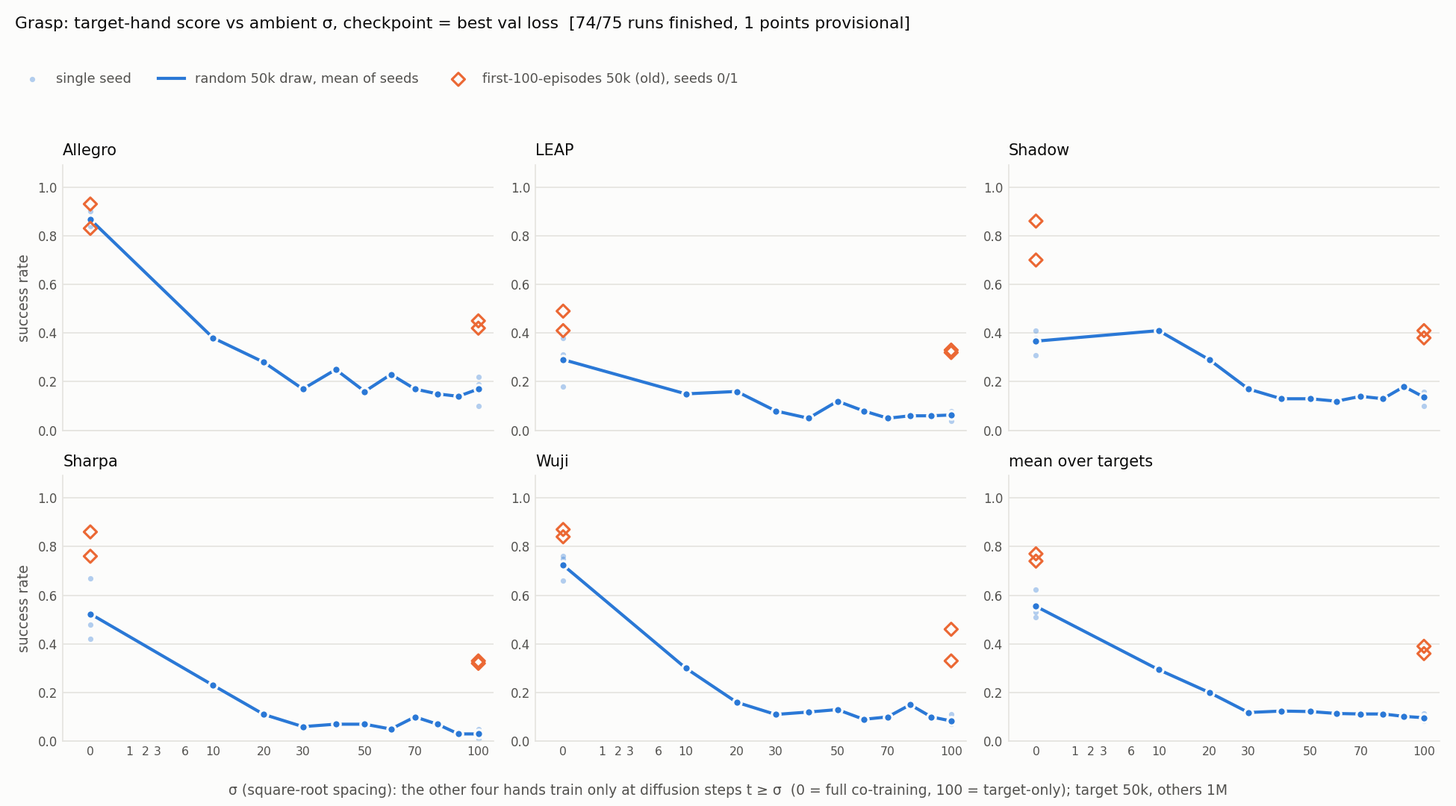
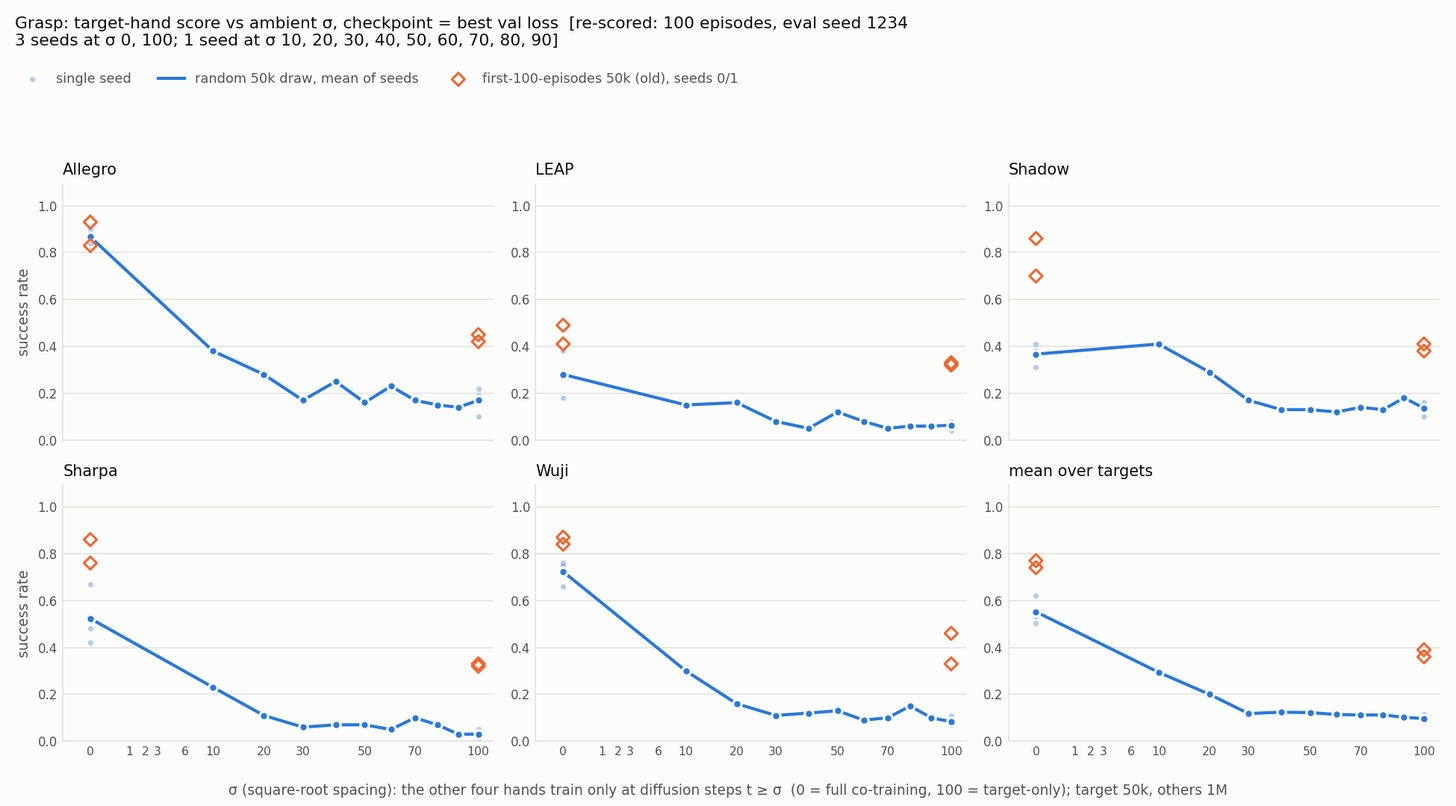
E23/E24 results and plots; grasp start-state mismatch between demos and evals (CHANGES 82)
Claude-Session: https://claude.ai/code/session_01MHEVDe8riCmBe92U7uyZyK

diff --git a/scripts/plot_finetune_sources.py b/scripts/plot_finetune_sources.py
@@ -11,7 +11,8 @@ training seeds, the line joins the seed means.
 
 --sources (item 81) lists the starting points: a sigma value (co-trained at that sigma; source best_val, fine-tune
 <Task>_sigma<S>_ft_best_val_*) or `loo` (leave-one-out pre-train, E22; source last0 from --loo-runs, fine-tune
-<Task>_loo_ft_latest_* in --loo-ft-runs). --family Grasp for grasp runs.
+<Task>_loo_ft_latest_* in --loo-ft-runs) or `amb` (each hand's own ambient sigma from --amb Hand=S ..., E24).
+--family Grasp for grasp runs.
 
 Rows: 100 envs x 1500 steps at `--eval-seed` (4321 = held-out test seed, never used for selection). Runs without
 the needed rows are skipped. Writes <out>/<prefix>_<what>_<metric>.png and <prefix>_<what>_summary.csv.
@@ -44,11 +45,12 @@ SERIES = [("src", "starting policy", "#2a78d6", "o"),
           ("ft", "after target-only fine-tune", "#eb6834", "s")]
 INK, INK2, GRID, SURFACE = "#0b0b0b", "#52514e", "#e4e3df", "#fcfcfb"
 SCRATCH_OUT = "$SCRATCH/cross_embodied_diffusion/outputs/diffusion"
-SOURCE_LABEL = {"loo": "no target\n(leave-one-out)", "0": "σ 0\n(co-train)", "100": "σ 100\n(target-only)"}
+SOURCE_LABEL = {"loo": "no target\n(LOO)", "0": "σ 0\nco-train", "100": "σ 100\ntarget-only",
+                "amb": "best σ\nambient"}
 
 
 def source_label(tok: str) -> str:
-    return SOURCE_LABEL.get(tok, f"σ {tok}\n(ambient)")
+    return SOURCE_LABEL.get(tok, f"σ {tok}\nambient")
 
 
 def rows(path: Path) -> list[dict]:
@@ -77,8 +79,9 @@ def collect(args) -> list[dict]:
                     src, src_which = args.loo_runs / f"{own}_loo_seed{k}", "last0"
                     ft = args.loo_ft_runs / f"{own}_loo_ft_latest_lr{args.lr}_seed{k}"
                 else:
-                    src, src_which = args.runs / f"{own}_sigma{s}_seed{k}", "best_val"
-                    ft = args.ft_runs / f"{own}_sigma{s}_ft_best_val_lr{args.lr}_seed{k}"
+                    sig = args.amb[hand] if s == "amb" else s
+                    src, src_which = args.runs / f"{own}_sigma{sig}_seed{k}", "best_val"
+                    ft = args.ft_runs / f"{own}_sigma{sig}_ft_best_val_lr{args.lr}_seed{k}"
                 for kind, run, which in (("src", src, src_which), ("ft", ft, args.ft_which)):
                     v = value(run, which, own, args.what, args.eval_seed, args.metric)
                     if v is not None:
@@ -96,6 +99,7 @@ def main() -> None:
     ap.add_argument("--loo-runs", type=Path, default=Path(os.path.expandvars(f"{SCRATCH_OUT}/loo_r")))
     ap.add_argument("--loo-ft-runs", type=Path, default=Path(os.path.expandvars(f"{SCRATCH_OUT}/loo_r_ft")))
     ap.add_argument("--title", default=None)
+    ap.add_argument("--amb", nargs="*", default=[], help="Hand=sigma pairs for the `amb` source")
     ap.add_argument("--seeds", type=int, nargs="+", default=[0, 1, 2])
     ap.add_argument("--lr", default="1e-05")
     ap.add_argument("--ft-which", default="last0")
@@ -106,6 +110,7 @@ def main() -> None:
     ap.add_argument("--prefix", default="finetune_sources_rotation")
     args = ap.parse_args()
     args.out.mkdir(parents=True, exist_ok=True)
+    args.amb = {k: int(v) for k, v in (x.split("=") for x in args.amb)}
     recs = collect(args)
     if not recs:
         raise SystemExit("no scored runs found")

diff --git a/docs/RUNS.md b/docs/RUNS.md
@@ -56,8 +56,9 @@ Vista (TACC GH200, project ASC26008), newest first. Output roots are relative to
 | Job | Submitted | Purpose | Exact submit command | Manifest (regenerate) | Output | Status | Log books |
 |---|---|---|---|---|---|---|---|
 | idev c639-092 (E21 evals) | 2026-10-08 10:08 | E21 evals run on the idev instead of waiting for the queued `1056925`–`1056932`: fine-tunes best_rollout/best_val/last0 at seed 4321, then 1234; fine-tunes best_val/last0 on the other 4 hands (seed 4321); sources σ 0/15/100 best_val on the other 4 hands (seed 4321). 8 processes on one GH200 | `slurm_jobs/vista_train_manifest/logs/rescore_e21/run.sh <p> 8` for p = 0..7 under `nohup` (gitignored wrapper: per stage `rescore_selected.py` / `eval_cross_embodiment.py --skip-target` with `--shard p/8`; logs `rescore_e21/p<p>.log`) | — | `ambient_ta_r_ft/*/final_eval.jsonl`, `cross_eval.jsonl`; `ambient_ta_r/*/cross_eval.jsonl` | **done** 2026-10-09 00:18 (577 evals here, ~690 s each at 8 per GH200; ~0.7 evals/min, same as 4). The queued batch evals also ran (`1056925` 1h21-1h40, `1056926`/`1056927`/`1056932` 1-52 min, picking up what was left); all rows present, checked | [E21](experiment_log_book.md#e21), [A43](agent_log_book.md#a43) |
-| E24 (to submit) | 2026-10-10 | Grasp fine-tunes from E23: σ 0 × seeds 0-2 + best ambient σ per hand (Allegro 10, LEAP 20, Shadow 10, Sharpa 10, Wuji 10; seed 0) = 20, lr 1e-5, 10 epochs, then evals (own hand 1234/4321, other hands 4321) in the same job | `bash slurm_jobs/submit_e24_grasp_ft.sh` = `sbatch -A ASC26008 -p gh -N 5 --array=0-3 -t 03:00:00 --job-name=grasp-ft --dependency=afterany:1061197 --export=ALL,MANIFEST=slurm_jobs/grasp_ft_chain_manifest.json,PACK=1 slurm_jobs/vista_train_manifest.sbatch` | see the script header (`build_finetune_manifest.py` ×6, concatenate, `build_chain_manifest.py --which best_rollout best_val last0 --cross-which best_val last0`) | `diffusion/ambient_ta_gr_ft/` | not submitted. Dependency on `1061197` because `Grasp-LEAP_sigma0_seed2` was still training. Dry run of slot 3/4 (task 19) checked; all 20 init checkpoints exist | [E24](experiment_log_book.md#e24), [A48](agent_log_book.md#a48) |
-| `1061197` (grasp-sweep; replaces `1061190`, cancelled) | 2026-10-09 | Grasp ambient σ sweep on random-draw targets: 5 targets × σ {0,10,…,100} × seed 0, plus σ {0,100} × seeds {1,2}: 75 runs, E19 recipe (`_K50kr` pools, frozen `norm_grasp_minmax.json`, noise-first). Each node trains one run, then scores best_val at seeds 1234 and 4321 | `sbatch -A ASC26008 -p gh -N 5 --array=0-14 -t 09:00:00 --job-name=grasp-sweep --export=ALL,MANIFEST=slurm_jobs/grasp_sweep_chain_manifest.json,PACK=1 slurm_jobs/vista_train_manifest.sbatch` (= `bash slurm_jobs/submit_e23_grasp_sweep.sh`) | see the script header (two `build_ambient_manifest.py` calls, concatenate, `build_chain_manifest.py`) | `diffusion/ambient_ta_gr/` | 14/15 COMPLETED 2026-10-09 20:37 → 10-10 03:19-04:00 (6h42-7h09); `1061197_12` still running at ~04:20 (7h09). 74/75 runs complete, all with best_val rows at 1234 and 4321. First submitted as `1061190` (5 x 15 nodes), chosen on a wrong count of 3 `gh` idevs (`i614-074` is on `gg`; the 20-running / 40-submitted caps are per partition); cancelled and resubmitted by the user as `1061197`, 15 x 5 nodes (fits: 2 `gh` idevs + 3 E22 + 15 = 20 running). 75 + 15 + 2 = 92 of 96 nodes. 9:00 = grasp runs 6h48-6h58 at PACK=1 (`1043385`) + ~10 min evals. Dry run of slot 4/14 (task 74, `Grasp-Wuji_sigma100_seed2`) checked | [E23](experiment_log_book.md#e23), [A46](agent_log_book.md#a46) |
+| idev c636-061 (E24 forgetting baseline) | 2026-10-11 | E23 source runs used by E24 (σ 0 seeds 0-2 + best ambient σ seed 0) on the other four grasp hands, best_val, seed 4321: 80 evals | `slurm_jobs/vista_train_manifest/logs/cross_e24_src/run.sh <p> 6` for p = 0..5 under `nohup` (wraps `eval_cross_embodiment.py ... --which best_val --eval-seed 4321 --skip-target --shard p/6`) | — | `ambient_ta_gr/*/cross_eval.jsonl` | running (started 14:5x) | [E24](experiment_log_book.md#e24), [A49](agent_log_book.md#a49) |
+| `1062769` (grasp-ft) | 2026-10-10 | Grasp fine-tunes from E23: σ 0 × seeds 0-2 + best ambient σ per hand (Allegro 10, LEAP 20, Shadow 10, Sharpa 10, Wuji 10; seed 0) = 20, lr 1e-5, 10 epochs, then evals (own hand 1234/4321, other hands 4321) in the same job | `bash slurm_jobs/submit_e24_grasp_ft.sh` = `sbatch -A ASC26008 -p gh -N 5 --array=0-3 -t 03:00:00 --job-name=grasp-ft --dependency=afterany:1061197 --export=ALL,MANIFEST=slurm_jobs/grasp_ft_chain_manifest.json,PACK=1 slurm_jobs/vista_train_manifest.sbatch` | see the script header (`build_finetune_manifest.py` ×6, concatenate, `build_chain_manifest.py --which best_rollout best_val last0 --cross-which best_val last0`) | `diffusion/ambient_ta_gr_ft/` | **done**: 4/4 COMPLETED 2026-10-10 07:46 → 10:07 (2h02-2h10 of 3:00), 20/20 fine-tunes, every eval row present (checked). Dependency on `1061197` because `Grasp-LEAP_sigma0_seed2` was still training. Dry run of slot 3/4 (task 19) checked; all 20 init checkpoints exist | [E24](experiment_log_book.md#e24), [A48](agent_log_book.md#a48) |
+| `1061197` (grasp-sweep; replaces `1061190`, cancelled) | 2026-10-09 | Grasp ambient σ sweep on random-draw targets: 5 targets × σ {0,10,…,100} × seed 0, plus σ {0,100} × seeds {1,2}: 75 runs, E19 recipe (`_K50kr` pools, frozen `norm_grasp_minmax.json`, noise-first). Each node trains one run, then scores best_val at seeds 1234 and 4321 | `sbatch -A ASC26008 -p gh -N 5 --array=0-14 -t 09:00:00 --job-name=grasp-sweep --export=ALL,MANIFEST=slurm_jobs/grasp_sweep_chain_manifest.json,PACK=1 slurm_jobs/vista_train_manifest.sbatch` (= `bash slurm_jobs/submit_e23_grasp_sweep.sh`) | see the script header (two `build_ambient_manifest.py` calls, concatenate, `build_chain_manifest.py`) | `diffusion/ambient_ta_gr/` | **done**: 15/15 COMPLETED 2026-10-09 20:37 → 10-10 03:19-04:27 (6h42-7h14 of 9:00); 75/75 runs, every best_val row at 1234 and 4321 (checked). First submitted as `1061190` (5 x 15 nodes), chosen on a wrong count of 3 `gh` idevs (`i614-074` is on `gg`; the 20-running / 40-submitted caps are per partition); cancelled and resubmitted by the user as `1061197`, 15 x 5 nodes (fits: 2 `gh` idevs + 3 E22 + 15 = 20 running). 75 + 15 + 2 = 92 of 96 nodes. 9:00 = grasp runs 6h48-6h58 at PACK=1 (`1043385`) + ~10 min evals. Dry run of slot 4/14 (task 74, `Grasp-Wuji_sigma100_seed2`) checked | [E23](experiment_log_book.md#e23), [A46](agent_log_book.md#a46) |
 | `1060968` (loo-chain; replaces `1060945`, cancelled) | 2026-10-09 | Leave-one-out: per rotation target × seeds {0,1,2}, pre-train on the other 4 hands only (target gated at 100 on its `_K50kr` store, E19 recipe), then fine-tune from `policy_latest.pt` on the target 50k (lr 1e-5, 10 epochs): 15 + 15 runs, plus evals (pre-trains zero-shot on the target and on their 4 hands; fine-tunes own hand at 4321/1234 and other hands at 4321) | `scancel 1060945; bash slurm_jobs/submit_e22_loo.sh` (login node) = `sbatch -A ASC26008 -p gh -N 5 --array=0-2 -t 12:00:00 --job-name=loo-chain --export=ALL,MANIFEST=slurm_jobs/loo_chain_manifest.json,PACK=1 slurm_jobs/vista_train_manifest.sbatch`: each node runs one chain pre-train → fine-tune (‖ pre-train evals) → fine-tune evals (CHANGES 79) | `scripts/build_ambient_manifest.py --families InHand-Rotation --leave-one-out --seeds 0 1 2 --size 50kr --root outputs/diffusion/loo_r --out slurm_jobs/loo_pretrain_manifest.json`; `scripts/build_finetune_manifest.py --families InHand-Rotation --src-tag loo --init policy_latest.pt --seeds 0 1 2 --lrs 1e-5 --size 50kr --src-root outputs/diffusion/loo_r --root outputs/diffusion/loo_r_ft --out slurm_jobs/loo_finetune_manifest.json`; `scripts/build_chain_manifest.py --pre slurm_jobs/loo_pretrain_manifest.json --ft slurm_jobs/loo_finetune_manifest.json --out slurm_jobs/loo_chain_manifest.json` | `diffusion/loo_r/`, `diffusion/loo_r_ft/` | **done**: 3/3 COMPLETED 2026-10-09 17:30 → 10-10 02:31-02:44 (9h01-9h14 of 12:00); 15/15 chains done, no errors; 15 pre-trains + 15 fine-tunes complete, every eval row present (checked). The first 7-job script queued `1060945` (loo-pre), `1060947` (loo-ft) and `1060948` (ev-loopre) and then stopped at ev-looprex on TACC's sbatch banner (CHANGES 78); all three were cancelled before starting; at the user's request everything is one chained job instead. Shape: PACK=1, 5-node jobs, 12:00 limit = pre-train 6h39-6h59 (`1049683`) + fine-tune ~1h35-1h46 (`1056188`) + evals ~0.5 h (same run length, 6h39-6h59 at PACK=1). 12 queue slots, peak 15 nodes; 3 idevs in use. Dry run of pre-train slots 0/0 and 2/4 checked | [E22](experiment_log_book.md#e22), [A45](agent_log_book.md#a45) |
 | `1056188` (train), `1056189` (ev-base4321), `1056925` (ev-basex), `1056926` (ev-ft1234), `1056927` (ev-ft4321), `1056932` (ev-ftx) | 2026-10-07 14:56 | Fine-tune the E19 rotation runs σ {0, 15, 100} × seeds {0,1,2} × 5 targets from `policy_best_val.pt`, target-only gating, lr 1e-5, 10 epochs, `_K50kr` stores: 45 runs. Plus evals: all 150 E19 runs best_val at seed 4321; E19 sources on the other 4 hands (seed 4321); fine-tunes best_rollout/best_val/last0 at seeds 1234 and 4321; fine-tunes best_val/last0 on the other 4 hands (seed 4321) | `bash slurm_jobs/submit_e21_finetune.sh` (login node). Train: `sbatch -A ASC26008 -p gh -N 5 --array=0-8 -t 02:30:00 --job-name=ft-amb-r --export=ALL,MANIFEST=slurm_jobs/finetune_r_manifest.json,PACK=1 slurm_jobs/vista_train_manifest.sbatch`; eval lines in the script (`vista_eval_checkpoints.sbatch` with `EVAL_SEED`/`CROSS`, `--dependency=afterany`) | `scripts/build_finetune_manifest.py --families InHand-Rotation --src-sigmas 0 15 100 --seeds 0 1 2 --lrs 1e-5 --size 50kr --src-root outputs/diffusion/ambient_ta_r --root outputs/diffusion/ambient_ta_r_ft --out slurm_jobs/finetune_r_manifest.json` | `diffusion/ambient_ta_r_ft/`; seed-4321 rows in `ambient_ta_r/*/final_eval.jsonl`, `cross_eval.jsonl` | **train `1056188` done** 2026-10-08 04:22–06:40, 9/9 COMPLETED, 45/45 runs with `selection.json`, 1h33–1h46 per job. **ev-base4321 `1056189` done** 04:40–06:29, 3/3 COMPLETED, 1h42–1h44 of the 1:45 limit (too tight; ~5.8 min/eval at 4 per GPU): best_val at seed 4321 for all 205 `ambient_ta_r` runs (E18 + E19; the glob took the whole dir). `1056925` ev-basex, `1056926` ev-ft1234, `1056927` ev-ft4321, `1056932` ev-ftx all COMPLETED 2026-10-08/09, sharing the work with the idev run (row above). E21 complete. Submitted 2026-10-07 14:56. The script stopped at `ev-basex`: `--export` rejects the space-separated `RUNS` (fixed, CHANGES 75); the remaining 4 evals (ev-basex, ev-ft1234, ev-ft4321, ev-ftx) were submitted with `bash slurm_jobs/submit_e21_evals_rest.sh`, but only 3 were queued (`1056925`–`1056927`). `ev-ftx` was missing (cause unknown; 23 of the 40 job slots used) and was resubmitted on its own as `1056932`: `sbatch -A ASC26008 -p gh --array=0-5 -t 02:00:00 --job-name=ev-ftx --dependency=afterany:1056927 --export=ALL,RUNS='diffusion/ambient_ta_r_ft/*',WHICH=best_val:last0,EVAL_SEED=4321,CROSS=1 slurm_jobs/vista_eval_checkpoints.sbatch`. Shape: queue stats 2026-10-07 13:31 (7 d) show median waits ~10–13 h for every node-count bin, so shape barely changes the start; PACK=1 keeps the run short (~1h35, as `1045839`), 45 nodes + 18 in use ≤ 96, 25 queue slots + 4 ≤ 40. Eval sizing: ~5.5 min/eval at 4 per GH200 (idev rescore 2026-10-07). Dry run of slots 0/4 and 8/4 checked | [E21](experiment_log_book.md#e21), [A43](agent_log_book.md#a43) |
 | idev rescore (c634-142 + c611-102) | 2026-10-07 | best_val re-score of the 150 new `ambient_ta_r` runs of `1052839` (100 envs x 1500 steps, seed 1234), 8 shards: 4 per GH200 on two idevs | `slurm_jobs/vista_train_manifest/logs/rescore_ambient_ta_r/run_shards.sh 0 3 8` on c634-142 and `... 4 7 8` on c611-102 (each runs `rescore_selected.py --run $SCRATCH/.../ambient_ta_r/* --which best_val --envs 100 --steps 1500 --eval-seed 1234 --shard i/8`; already-scored runs skipped) | — | `diffusion/ambient_ta_r/*/final_eval.jsonl` | done 2026-10-07 10:31–12:33, 205/205 rows, no errors | [E19](experiment_log_book.md#e19), [A42](agent_log_book.md#a42) |

diff --git a/docs/experiment_log_book.md b/docs/experiment_log_book.md
@@ -37,7 +37,7 @@ diffusion timesteps t ≥ σ (out of 100). σ=0 is full co-training and σ=100 i
 
 | # | Date | Finding |
 |---|---|---|
-| [E24](#e24) | 2026-10-10 | *Planned:* grasp fine-tunes from σ 0 (3 seeds) and each hand's best ambient σ (seed 0). |
+| [E24](#e24) | 2026-10-11 | Grasp fine-tuning, as for rotation: from σ 0 0.58 → 0.69, from each hand's best ambient σ 0.29 → 0.31 (seed 4321). |
 | [E23](#e23) | 2026-10-10 | Grasp is hurt by ambient gating at every σ: success falls from 0.58 (σ 0, full co-training) to 0.31 (σ 10) and ~0.08–0.10 from σ 30 on (seed 4321), unlike rotation's σ 9–20 plateau. Scores on random-draw targets are far below the old first-episode subsets (target-only 0.10 vs 0.38): open question. |
 | [E22](#e22) | 2026-10-10 | Pre-training without any target data, then fine-tuning on the target 50k, matches co-training with the target mixed in, then fine-tuning: 1.16 vs 1.17 successes before drop (held-out seed 4321). The pre-train alone scores 0.00 on its unseen target. |
 | [E21](#e21) | 2026-10-08 | Fine-tuning from full co-training (σ 0) beats fine-tuning from the best ambient runs (σ 15): 1.17 vs 0.90 successes before drop at held-out seed 4321 (target-only start: 0.71). Ambient gating gives the best policy *before* fine-tuning (0.86) but gains almost nothing from it. The σ curve replicates at seed 4321. |
@@ -84,11 +84,12 @@ diffusion timesteps t ≥ σ (out of 100). σ=0 is full co-training and σ=100 i
 ## Entries
 
 <a id="e24"></a>
-### E24 — 2026-10-10 — Grasp fine-tuning from co-trained and best ambient runs (planned)
+### E24 — 2026-10-11 — Grasp fine-tuning from co-trained and best ambient runs
 
 **Question.** Does fine-tuning on the target help grasp the way it helps rotation (E21), and does starting from the
 best ambient run do better or worse than starting from full co-training?
-**Status.** set up, not submitted (RUNS "E24" row).
+**Status.** done (`1062769`, 4/4 COMPLETED, 20/20 fine-tunes, all eval rows). Forgetting baseline (sources on
+the other hands) running on idev c636-061 (RUNS), so the forgetting figure is pending.
 
 **Protocol.** From E23 runs' `policy_best_val.pt`: σ 0 × seeds 0-2, and each hand's best ambient σ among 10-90
 (chosen on seed 1234: Allegro 10, LEAP 20, Shadow 10, Sharpa 10, Wuji 10; seed 0 only, the only seed trained) = 20
@@ -96,7 +97,24 @@ fine-tunes (`ambient_ta_gr_ft/`). E21 recipe: target-only gating, lr 1e-5, 10 ep
 best_rollout/best_val/last0 on the target at seeds 1234 and 4321, best_val/last0 on the other hands at 4321.
 No σ 100 control (not requested). The ambient arm has 1 seed.
 
-**Results.** Pending.
+**Results (grasp success rate, own hand, held-out seed 4321; start = source best_val, fine-tuned = last0).**
+
+| Target | σ 0: start → fine-tuned (3 seeds) | best ambient σ: start → fine-tuned (seed 0) | σ 100 (not fine-tuned) |
+|---|---|---|---|
+| Allegro | 0.88 → **0.95** | σ 10: 0.40 → 0.47 | 0.12 |
+| LEAP | 0.33 → **0.53** | σ 20: 0.17 → 0.14 | 0.10 |
+| Shadow | 0.40 → **0.55** | σ 10: 0.43 → 0.41 | 0.10 |
+| Sharpa | 0.57 → **0.74** | σ 10: 0.28 → 0.29 | 0.03 |
+| Wuji | 0.69 → 0.66 | σ 10: 0.16 → 0.23 | 0.06 |
+| **Mean** | 0.58 → **0.69** | 0.29 → 0.31 | 0.08 |
+
+- σ 0 fine-tuned per seed: 0.73 / 0.68 / 0.65. Fine-tune best_val gives the same means (σ 0 0.69, ambient 0.33).
+- σ 0 + fine-tune is best for every hand; it gains for 4 of 5 hands (Wuji flat). The ambient starts gain ≈ 0.
+
+![E24: grasp fine-tuning from sigma 0 and best ambient sigma, seed 4321](plots/finetune_sources_grasp_target_success_rate.png)
+
+**Takeaways.** Same as rotation (E21): fine-tune from full co-training; ambient-gated starts gain nothing from a
+target-only fine-tune. Absolute grasp numbers are depressed by the start-state mismatch found in E23.
 
 **Links.** RUNS: E24 row · Agent log: [A48](agent_log_book.md#a48) · CHANGES: item 81
 
@@ -108,8 +126,8 @@ No σ 100 control (not requested). The ambient arm has 1 seed.
 **Question.** Does ambient gating help a scarce (50k) grasp target the way it helps rotation (E18/E19: plateau at σ
 9–20)? Bundle reported grasp hurt monotonically by gating; the term-aligned co-training result for grasp (E14) was
 +0.38..+0.44 over target-only on the old first-episode subsets, which E17 showed memorize.
-**Status.** results from 74/75 runs (`1061197`; `Grasp-LEAP_sigma0_seed2` still training at 2026-10-10 ~04:20, its
-seed-1234 point is a provisional in-training score and it has no seed-4321 row yet).
+**Status.** done (`1061197`, 15/15 COMPLETED, 75/75 runs, every best_val row at seeds 1234 and 4321; figures final
+2026-10-11).
 
 **Data.** New random-draw grasp targets (`subsets_50kr/Grasp-<Hand>_expert_50kr.zarr`, draw seed 0, 100 episodes,
 49.8–50.0k steps) pooled with the other four hands at 1M (`padded_ta/Grasp_pad5_scarce<Hand>_K50kr.zarr`, 4.05M
@@ -132,14 +150,23 @@ steps, eval seeds 1234 and 4321 (first episode per env; grasp success rate), in 
 | seed 1234 | 0.55 | 0.29 | 0.20 | 0.12 | 0.12 | 0.12 | 0.11 | 0.11 | 0.11 | 0.10 | 0.10 |
 | seed 4321 | **0.58** | 0.31 | 0.17 | 0.10 | 0.10 | 0.08 | 0.09 | 0.09 | 0.08 | 0.08 | 0.08 |
 
-- Per hand σ 0 / σ 100 at seed 4321: Allegro 0.88/0.12, LEAP 0.34/0.10, Shadow 0.40/0.10, Sharpa 0.57/0.03, Wuji
+- Per hand σ 0 / σ 100 at seed 4321: Allegro 0.88/0.12, LEAP 0.33/0.10, Shadow 0.40/0.10, Sharpa 0.57/0.03, Wuji
   0.69/0.06. Best ambient σ (10-90, seed 1234): Allegro 10 (0.38), LEAP 20 (0.16), Shadow 10 (0.41, the only hand
   where an ambient σ beats σ 0, 0.37), Sharpa 10 (0.23), Wuji 10 (0.30).
 - Time to success rises and final distance to goal barely changes with σ (metrics figure).
-- **Open question:** the old first-episode-subset runs (`ambient_ta`, E14, seed 1234) score much higher: σ 0 0.76,
-  σ 100 0.38 (mean), against 0.55 / 0.10 here, although seed 1234 is unseen for both and a random draw should
-  generalize no worse. Not explained yet; worth checking how the two 50k sets differ (episode lengths, start
-  states, success filtering) before reading the grasp numbers as absolute.
+- **Why the random-draw grasp scores are low (found 2026-10-11): the training episodes start differently from the
+  eval episodes.** The old first-episode-subset runs (`ambient_ta`, E14, seed 1234) score σ 0 0.76 / σ 100 0.38
+  against 0.55 / 0.10 here. Evals score each env's first episode after a fresh `env.reset()`. In the 1M grasp stores
+  (256 envs, auto-reset), the first episodes start from a fresh reset, but later ones start after an auto-reset, from
+  visibly different states. Start-step obs, Grasp-Allegro, first 100 episodes vs episodes 300+ (Shadow alike):
+  `actions` (last action) std 0.000 vs 0.514, all velocities 0.000 vs 0.01-0.22, `hand_dof_pos` std 0.054 vs 0.154
+  with mean shifts up to 2.9 SD, `hand_root_quat` 2.8 SD, `object_pos_rel_hand` 2.7 SD. So a fresh-reset start (hand
+  at its default pose, zero velocity, zero last action) is rare in a random draw (3/100 episodes), and the old subsets
+  were all of that kind, which matches the eval. This explains low target-only numbers better than "random draws
+  generalize worse"; it is shown for start states only, not tested by retraining. Co-training is hit less because
+  ~256 of each source hand's ~2000 episodes are fresh starts.
+  Not checked: rotation (E18 random-draw targets did not drop: target-only 0.63-0.64 vs 0.70 on old subsets), and why
+  auto-reset does not restore the hand pose/last action (env reset events).
 
 ![E23: grasp success vs ambient sigma per hand, seed 4321](plots/ambient_sigma_grasp_seed4321.png)
 
@@ -151,7 +178,9 @@ Seed-1234 versions (with the old-subset σ 0/100 runs as hollow diamonds): `plot
 **Takeaways.**
 - For grasp, full co-training (σ 0) is best and any gating hurts, roughly monotonically, as Bundle reported. Rotation's
   σ 9–20 plateau does not carry over. A reading, not tested: grasp needs the other hands at the low-noise end.
-- Target-only grasp from a random 50k draw barely works (0.08 at seed 4321).
+- Target-only grasp from a random 50k draw barely works (0.08 at seed 4321), most likely because its training starts
+  hardly include the fresh-reset starts that evals use (above). Fix options: draw target subsets that keep the
+  fresh-reset episodes in proportion, or (better) also score auto-reset episodes; then rerun the σ 0/100 arms.
 
 **Links.** RUNS: E23 row · Agent log: [A46](agent_log_book.md#a46), [A48](agent_log_book.md#a48) · CHANGES: items 80, 81
 · COLLECTIONS: grasp `50kr`

diff --git a/docs/agent_log_book.md b/docs/agent_log_book.md
@@ -46,11 +46,10 @@ for anything still running.** The rules for agents are in [`../AGENTS.md`](../AG
 - **E21 done** (2026-10-09): fine-tuned from σ 0 1.17 vs σ 15 0.90 vs σ 100 0.71 at held-out seed 4321 (1234
   agrees); σ 0's fine-tune forgets the other hands (1.37 → 0.26 at last0, 0.87 at best_val). Why σ 15 gains little
   (target sample share) and three proposed follow-ups are in [E21](experiment_log_book.md#e21).
-- **E23 done except one run** (2026-10-10): grasp success falls with σ (0.58 at σ 0 → 0.08 at 100, seed 4321);
-  `Grasp-LEAP_sigma0_seed2` (`1061197_12`) was still training: re-render `plot_ambient_sigma.py --family Grasp` (both
-  seeds) when it lands. Open question: random-draw grasp targets score far below the old subsets ([E23](experiment_log_book.md#e23)).
-- **E24 ready (user, login node):** `bash slurm_jobs/submit_e24_grasp_ft.sh` (20 grasp fine-tunes + evals, waits for
-  `1061197`) ([A48](#a48), RUNS E24 row).
+- **E23 + E24 done** (2026-10-11): grasp gating hurts at every σ; fine-tune from σ 0 (0.58 → 0.69), not from the
+  best ambient σ (0.29 → 0.31). Random-draw grasp targets have almost no fresh-reset start states, which evals use:
+  likely why grasp scores dropped ([E23](experiment_log_book.md#e23)). E24 forgetting baseline running on idev
+  c636-061 (`cross_e24_src/p*.log`); when done: `plot_finetune_sources.py --family Grasp --what others ...` (A49).
 - **E22 done** (2026-10-10): leave-one-out pre-train + fine-tune 1.16 vs σ 0 + fine-tune 1.17 at seed 4321; zero-shot
   0.00; LOO fine-tunes forget the other hands completely ([E22](experiment_log_book.md#e22)).
 - Earlier finished jobs: `1049683` (rotation ambient σ sweep, 55 runs), has
@@ -106,6 +105,7 @@ for anything still running.** The rules for agents are in [`../AGENTS.md`](../AG
 
 | # | Date | Summary |
 |---|---|---|
+| [A49](#a49) | 2026-10-11 | E23/E24 analysed and plotted; found why random-draw grasp targets score low (training starts ≠ eval starts). |
 | [A48](#a48) | 2026-10-10 | E22 figures; E23 grasp results and figures (σ 0 best, gating hurts); E24 grasp fine-tunes set up. |
 | [A47](#a47) | 2026-10-10 | E22 done and written up (LOO + fine-tune = σ 0 + fine-tune); E23 grasp sweep finishing. |
 | [A46](#a46) | 2026-10-09 | Built random-draw grasp 50k targets and pools, checked them against the frozen grasp normalizer, set up the E23 grasp σ sweep (75 runs). |
@@ -158,6 +158,28 @@ for anything still running.** The rules for agents are in [`../AGENTS.md`](../AG
 ---
 
 ## Entries
+
+<a id="a49"></a>
+### A49 — 2026-10-11 — E23/E24 results; grasp start-state mismatch
+
+**Request.** The jobs are done: analyse the results and push the plots.
+
+**Done.**
+- `1061197` (E23) 15/15 and `1062769` (E24) 4/4 COMPLETED; 75/75 + 20/20 runs; no missing eval rows. E23 figures
+  re-rendered with all 75 runs; E24 figure (CHANGES 82); E23/E24 written up.
+- Investigated E23's open question: start-step observations of fresh-reset (first ~100) vs auto-reset episodes in
+  the grasp 1M stores differ strongly (last action, velocities, hand pose, object position relative to the hand),
+  and evals start from fresh resets only; a random 50k draw has 3/100 fresh starts.
+- Forgetting baseline for E24 (sources on the other hands) was never scheduled; running it on idev c636-061
+  (`cross_e24_src/run.sh`, 6 processes). The E24 forgetting figure waits on it.
+
+**Verified / not verified.** Verified: coverage, per-term start statistics (Allegro, Shadow). Not verified: that the
+mismatch causes the drop (no retraining), rotation's start-state picture, why auto-reset differs.
+
+**Pointers.** RUNS: E23, E24, idev c636-061 rows · CHANGES 82 · Experiments: [E23](experiment_log_book.md#e23),
+[E24](experiment_log_book.md#e24)
+
+---
 
 <a id="a48"></a>
 ### A48 — 2026-10-10 — E22 plots, E23 grasp results, E24 set up

diff --git a/AGENTS.md b/AGENTS.md
@@ -267,6 +267,10 @@ were wrong in different ways.
 - The target's 50k is not needed in pre-training when a fine-tune follows (E22, rotation, seed 4321): pre-training
   on the other four hands only, then fine-tuning, gives 1.16 vs 1.17 for co-training with the target. Zero-shot on
   the unseen hand is 0.00, and the fine-tuned policy then fails the other hands (0.00), unlike σ 0's best_val (0.87).
+- **Demo episodes after an auto-reset start differently from evals** (E23, grasp): evals score each env's first
+  episode after a fresh reset (hand at default pose, zero velocity, zero last action), but in the 1M stores only the
+  first ~256 episodes start that way. A random 50k draw (~100 episodes) has ~3 such starts, which likely explains
+  low grasp scores on random-draw targets (target-only 0.08). Keep this in mind when subsampling or evaluating.
 - **Never evaluate at env seed 0.** The 1M demo stores were collected at seed 0, so a seed-0 eval
   replays training start states, and the old `subsets_50k/` are the first ~100 episodes of the 1M
   stores (100% overlap). Report at seed 1234. Target-only 50k grasp policies memorize (0.92-0.95

diff --git a/docs/CHANGES.md b/docs/CHANGES.md
@@ -10,6 +10,16 @@ Numbered items are cited from code comments ("See CHANGES.md item N", meaning th
 
 ---
 
+## 2026-10-11 — E24 plot
+
+### 82. `plot_finetune_sources.py`: per-hand `amb` source, shorter source labels
+
+- `--sources amb` with `--amb Hand=S ...` uses each hand's own ambient σ (E24). Source tick labels shortened (they
+  collided with three sources): `σ 0 / co-train`, `best σ / ambient`, `σ 100 / target-only`, `no target / (LOO)`.
+  E21/E22 figures re-rendered with the new labels (data unchanged).
+
+---
+
 ## 2026-10-10 — E22/E23 plots, E24 grasp fine-tunes
 
 ### 81. Plot scripts for grasp and leave-one-out; `build_chain_manifest.py --cross-which`; `submit_e24_grasp_ft.sh` (NEW)
